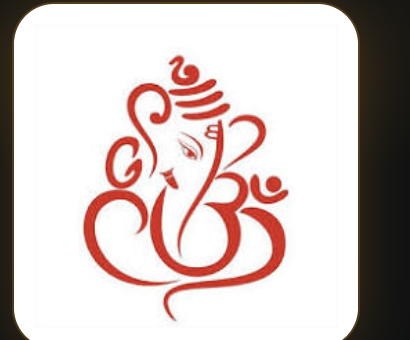
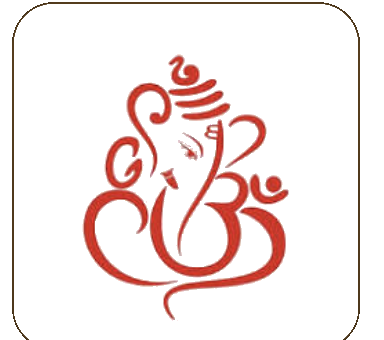
Fix black shadow artifact on Ganesha hero image.
Strip baked-in dark border from the PNG asset and soften the frame CSS so the artwork sits on a clean white background.

diff --git a/frontend/src/index.css b/frontend/src/index.css
@@ -1733,21 +1733,22 @@ html[data-theme="dark"] .si-chart__lagna-badge {
 .home-hero__img-wrap {
   position: relative;
   display: inline-block;
-  padding: 10px;
-  border-radius: 20px;
+  padding: 8px;
+  border-radius: 16px;
   background: #ffffff;
+  overflow: hidden;
   box-shadow:
-    0 4px 24px rgba(255, 153, 0, 0.18),
-    0 0 0 1px rgba(255, 153, 0, 0.12);
+    0 2px 16px rgba(255, 153, 0, 0.14),
+    0 0 0 1px rgba(255, 153, 0, 0.1);
 }
 
 .home-hero__img {
   display: block;
   width: clamp(120px, 38vw, 180px);
   height: auto;
-  aspect-ratio: 410 / 340;
+  aspect-ratio: 384 / 340;
   object-fit: contain;
-  border-radius: 12px;
+  background: #ffffff;
 }
 
 .home-hero--compact .home-hero__img {
@@ -1787,8 +1788,8 @@ html[data-theme="dark"] .si-chart__lagna-badge {
 
 [data-theme="dark"] .home-hero__img-wrap {
   box-shadow:
-    0 4px 28px rgba(255, 153, 0, 0.22),
-    0 0 0 1px rgba(255, 153, 0, 0.2);
+    0 2px 18px rgba(255, 153, 0, 0.18),
+    0 0 0 1px rgba(255, 153, 0, 0.16);
 }
 
 .ganesha-art .ganesha-halo {

diff --git a/frontend/src/pages/Home.jsx b/frontend/src/pages/Home.jsx
@@ -223,7 +223,7 @@ function HomeTab({ form, setForm, onChartReady, loading, error, chart, onGoToTab
             alt="Lord Ganesha"
             className="home-hero__img"
             width={180}
-            height={149}
+            height={159}
             loading="eager"
             decoding="async"
           />
